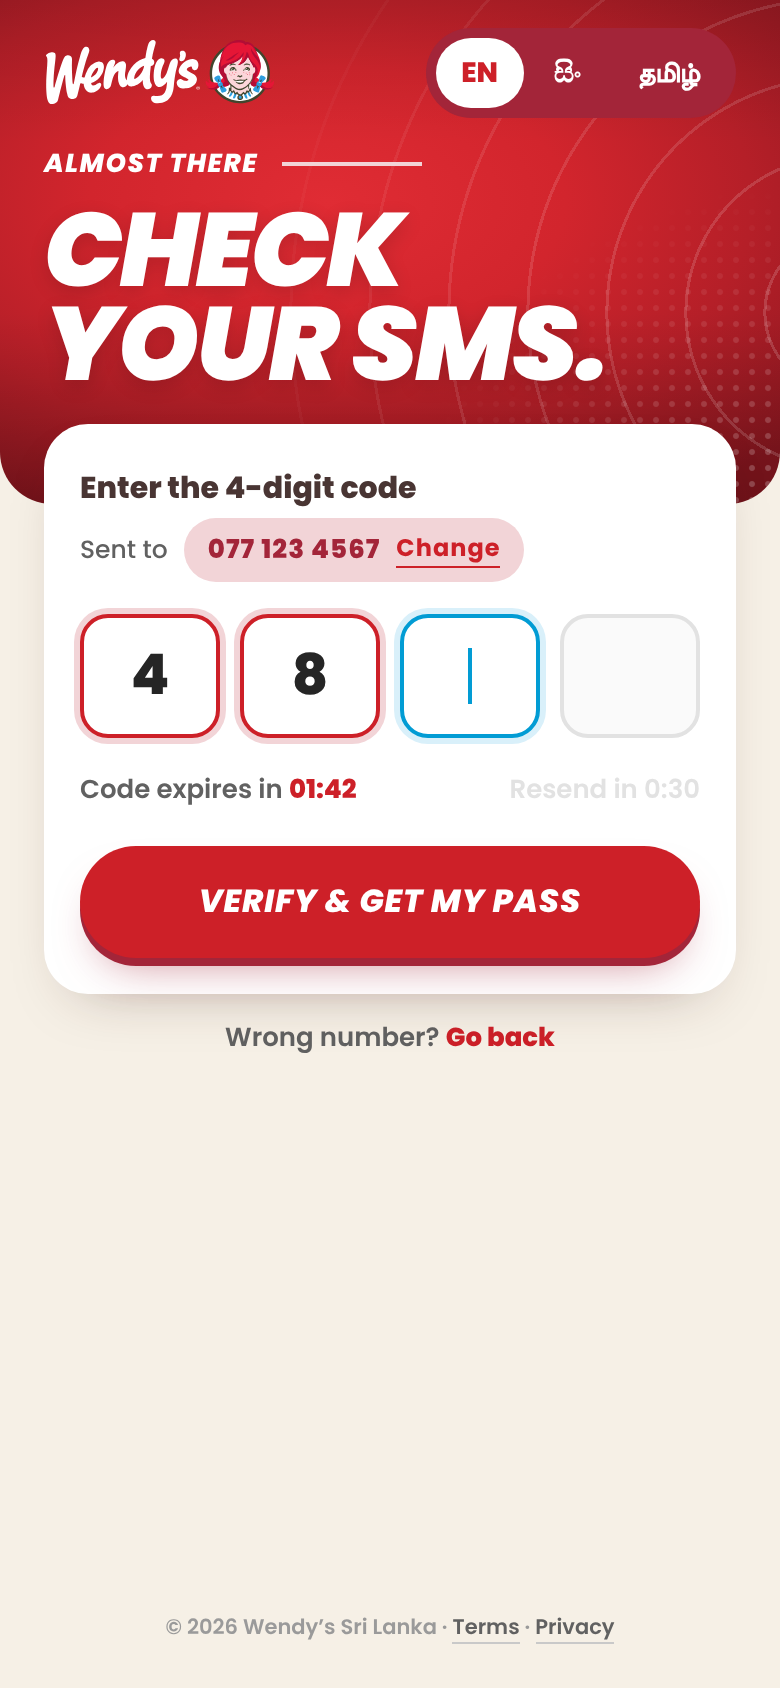
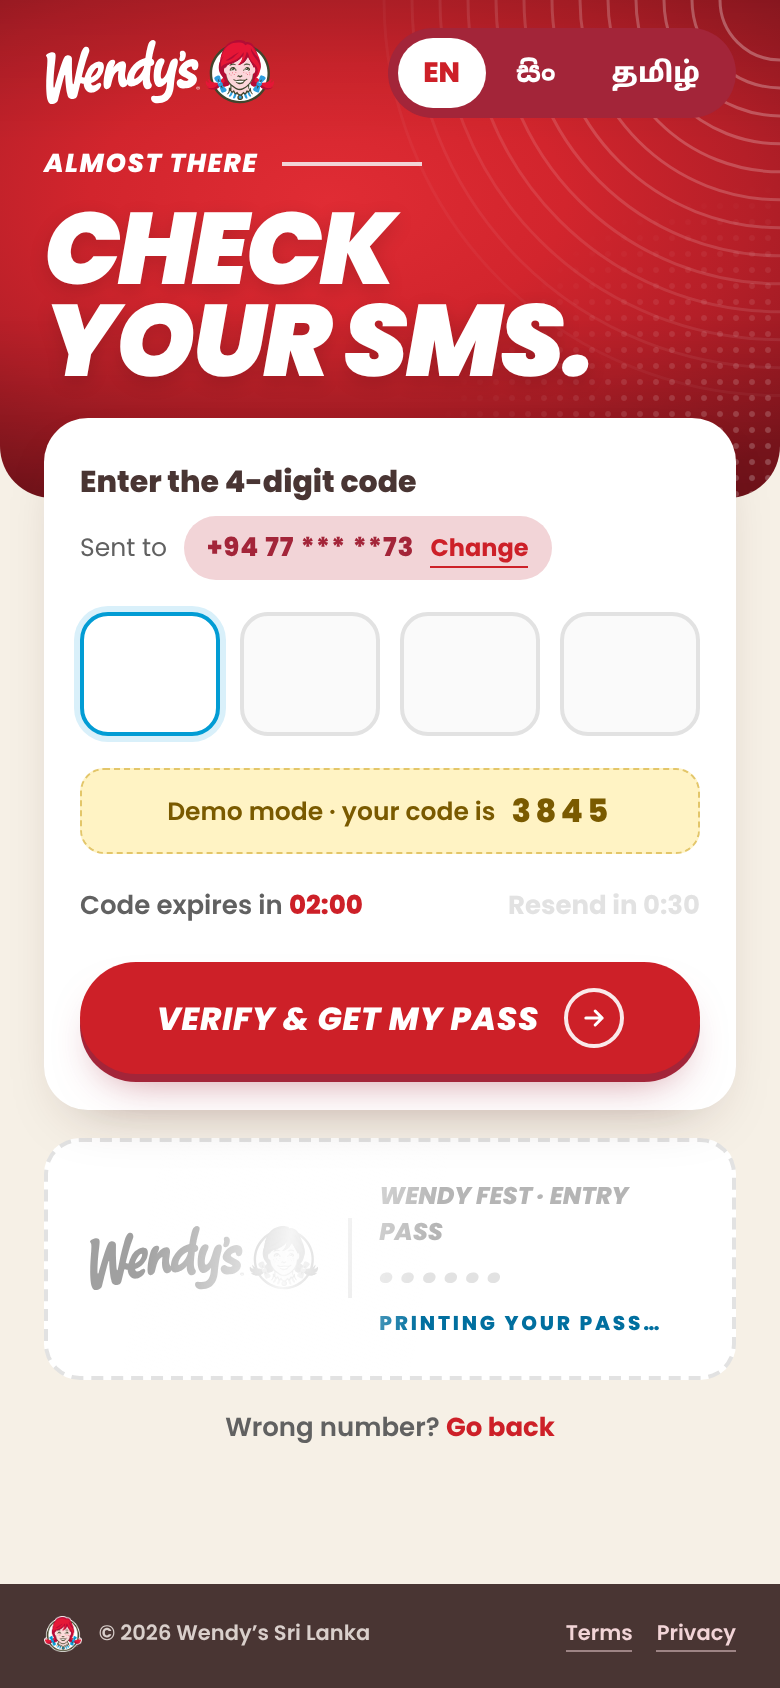
OTP: ghost entry-pass card below the code (option B)
Claude-Session: https://claude.ai/code/session_015MHPvZ3kkn8jw5YatKY7r4

diff --git a/public/js/i18n.js b/public/js/i18n.js
@@ -9,7 +9,7 @@ window.I18N = {
     name: "Your name", phone: "Mobile number", phoneHelp: "We’ll SMS your code to this number.", email: "Email", optional: "optional", dob: "Date of birth",
     consent: "I agree to Wendy’s Sri Lanka contacting me about Wendy Fest and launch offers.", getCode: "Get my code", sending: "Sending…",
     errName: "Please enter your name", errPhone: "Enter a valid Sri Lankan mobile number (07X XXX XXXX)", errGeneric: "Something went wrong. Try again.", errDob: "Enter your date of birth as DD / MM / YYYY",
-    demoOtp: "Demo mode · your code is", otpEyebrow: "Almost there", otpTitle1: "Check", otpTitle2: "your SMS.", otpEnter: "Enter the 4-digit code", sentTo: "Sent to", change: "Change",
+    demoOtp: "Demo mode · your code is", printing: "Printing your pass…", otpEyebrow: "Almost there", otpTitle1: "Check", otpTitle2: "your SMS.", otpEnter: "Enter the 4-digit code", sentTo: "Sent to", change: "Change",
     expires: "Code expires in", resendIn: "Resend in", resend: "Resend", verify: "Verify & get my pass", wrongNumber: "Wrong number?", goBack: "Go back",
     errOtp: "That code isn’t right. Try again.", errOtpExpired: "That code has expired. We’ve sent a new one.",
     inEyebrow: "You’re in.", inSub: "Your Wendy Fest pass is ready.", entryPass: "Entry pass", oneCode: "One code. Both experiences.",
@@ -31,7 +31,7 @@ window.I18N = {
     name: "ඔබේ නම", phone: "ජංගම දුරකථන අංකය", phoneHelp: "ඔබේ කේතය මෙම අංකයට SMS කරනු ලැබේ.", email: "විද්යුත් තැපෑල", optional: "අත්යවශ්ය නොවේ", dob: "උපන් දිනය",
     consent: "Wendy Fest සහ launch offers ගැන Wendy's Sri Lanka මා අමතීමට මම එකඟ වෙමි.", getCode: "මගේ කේතය ලබාගන්න", sending: "යවමින්…",
     errName: "කරුණාකර ඔබේ නම ඇතුළත් කරන්න", errPhone: "වලංගු ශ්රී ලංකා ජංගම අංකයක් ඇතුළත් කරන්න (07X XXX XXXX)", errGeneric: "යමක් වැරදුණා. නැවත උත්සාහ කරන්න.", errDob: "උපන් දිනය DD / MM / YYYY ලෙස ඇතුළත් කරන්න",
-    demoOtp: "Demo mode · ඔබේ කේතය", otpEyebrow: "ආසන්නයි", otpTitle1: "ඔබේ SMS", otpTitle2: "බලන්න.", otpEnter: "ඉලක්කම් 4 කේතය ඇතුළත් කරන්න", sentTo: "යවා ඇත", change: "වෙනස් කරන්න",
+    demoOtp: "Demo mode · ඔබේ කේතය", printing: "ඔබේ pass එක සූදානම් වෙමින්…", otpEyebrow: "ආසන්නයි", otpTitle1: "ඔබේ SMS", otpTitle2: "බලන්න.", otpEnter: "ඉලක්කම් 4 කේතය ඇතුළත් කරන්න", sentTo: "යවා ඇත", change: "වෙනස් කරන්න",
     expires: "කේතය අවසන් වන්නේ", resendIn: "නැවත යැවීමට", resend: "නැවත යවන්න", verify: "තහවුරු කර pass එක ගන්න", wrongNumber: "වැරදි අංකයක්ද?", goBack: "ආපසු",
     errOtp: "ඒ කේතය වැරදියි. නැවත උත්සාහ කරන්න.", errOtpExpired: "කේතය කල් ඉකුත්. අලුත් එකක් යැව්වා.",
     inEyebrow: "ඔබ ඇතුළත්.", inSub: "ඔබේ Wendy Fest pass එක සූදානම්.", entryPass: "Entry pass", oneCode: "එක කේතයක්. අත්දැකීම් දෙකක්.",
@@ -53,7 +53,7 @@ window.I18N = {
     name: "உங்கள் பெயர்", phone: "மொபைல் எண்", phoneHelp: "உங்கள் குறியீடு இந்த எண்ணுக்கு SMS செய்யப்படும்.", email: "மின்னஞ்சல்", optional: "விருப்பத்திற்குரியது", dob: "பிறந்த தேதி",
     consent: "Wendy Fest மற்றும் launch offers பற்றி Wendy's Sri Lanka என்னைத் தொடர்பு கொள்ள சம்மதிக்கிறேன்.", getCode: "எனது குறியீட்டைப் பெறு", sending: "அனுப்புகிறது…",
     errName: "உங்கள் பெயரை உள்ளிடவும்", errPhone: "சரியான இலங்கை மொபைல் எண்ணை உள்ளிடவும் (07X XXX XXXX)", errGeneric: "ஏதோ தவறு. மீண்டும் முயற்சிக்கவும்.", errDob: "பிறந்த தேதியை DD / MM / YYYY என உள்ளிடவும்",
-    demoOtp: "Demo mode · உங்கள் குறியீடு", otpEyebrow: "கிட்டத்தட்ட", otpTitle1: "உங்கள் SMS", otpTitle2: "பாருங்கள்.", otpEnter: "4 இலக்க குறியீட்டை உள்ளிடவும்", sentTo: "அனுப்பியது", change: "மாற்று",
+    demoOtp: "Demo mode · உங்கள் குறியீடு", printing: "உங்கள் pass தயாராகிறது…", otpEyebrow: "கிட்டத்தட்ட", otpTitle1: "உங்கள் SMS", otpTitle2: "பாருங்கள்.", otpEnter: "4 இலக்க குறியீட்டை உள்ளிடவும்", sentTo: "அனுப்பியது", change: "மாற்று",
     expires: "குறியீடு காலாவதி", resendIn: "மீண்டும் அனுப்ப", resend: "மீண்டும் அனுப்பு", verify: "சரிபார்த்து pass பெறு", wrongNumber: "தவறான எண்?", goBack: "பின் செல்",
     errOtp: "அந்தக் குறியீடு சரியில்லை. மீண்டும் முயற்சிக்கவும்.", errOtpExpired: "குறியீடு காலாவதியானது. புதியதை அனுப்பியுள்ளோம்.",
     inEyebrow: "நீங்கள் உள்ளே.", inSub: "உங்கள் Wendy Fest pass தயார்.", entryPass: "Entry pass", oneCode: "ஒரு குறியீடு. இரண்டு அனுபவங்கள்.",

diff --git a/public/css/guest.css b/public/css/guest.css
@@ -209,3 +209,14 @@ button, input, select { font:inherit; }
 #dob-native::-webkit-calendar-picker-indicator { position:absolute; inset:0; width:100%; height:100%; opacity:0; cursor:pointer; }
 .demo-otp { display:flex; align-items:center; justify-content:center; gap:8px; background:#FFF3C4; color:#7A5A00; border:1.5px dashed #E3C66A; border-radius:12px; padding:8px 12px; font-size:12.5px; font-weight:600; }
 .demo-otp b { font-weight:900; font-size:16px; letter-spacing:.14em; }
+
+/* OTP ghost pass */
+.ghost { position:relative; background:#fff; border-radius:18px; border:2px dashed var(--line); padding:18px 20px; display:flex; align-items:center; gap:14px; overflow:hidden; }
+.ghost::after { content:""; position:absolute; inset:0; background:linear-gradient(100deg, transparent 30%, rgba(255,255,255,.9) 50%, transparent 70%); animation:ghostshine 2.2s linear infinite; pointer-events:none; }
+@keyframes ghostshine { from { transform:translateX(-100%) } to { transform:translateX(100%) } }
+@media (prefers-reduced-motion:reduce) { .ghost::after { animation:none; } }
+.ghost img { height:34px; width:auto; opacity:.5; filter:grayscale(1); }
+.ghost .vr { width:1.5px; height:40px; background:var(--line); }
+.ghost .t1 { font-weight:800; font-style:italic; text-transform:uppercase; font-size:12px; color:#B5B5B5; }
+.ghost .t2 { font-weight:900; font-style:italic; font-size:24px; letter-spacing:.1em; color:var(--line); line-height:1.1; }
+.ghost small { display:block; font-size:10px; font-weight:800; letter-spacing:.14em; text-transform:uppercase; color:var(--blue-dark); margin-top:2px; }

diff --git a/public/register.html b/public/register.html
@@ -44,6 +44,7 @@
         <div class="timer"><span><span data-t="expires">Code expires in</span> <b id="otp-ttl">02:00</b></span><button type="button" id="otp-resend" disabled><span data-t="resendIn">Resend in</span> <span id="otp-resend-in">0:30</span></button></div>
         <button class="btn" id="verify" type="button"><span data-t="verify">Verify &amp; get my pass</span><svg class="arr" width="20" height="20" viewBox="0 0 24 24" fill="none" stroke="currentColor" stroke-width="2.6" stroke-linecap="round" stroke-linejoin="round" aria-hidden="true"><path d="M5 12h14M13 6l6 6-6 6"/></svg></button>
       </div>
+      <div class="ghost rise-2"><img src="/assets/wendys-horiz.svg" alt=""><div class="vr"></div><div><div class="t1"><span data-t="fest">Wendy Fest</span> · <span data-t="entryPass">Entry pass</span></div><div class="t2">······</div><small data-t="printing">Printing your pass…</small></div></div>
       <div class="link"><span data-t="wrongNumber">Wrong number?</span> <a href="#" id="otp-back" data-t="goBack">Go back</a></div>
     </main>
   </section>
